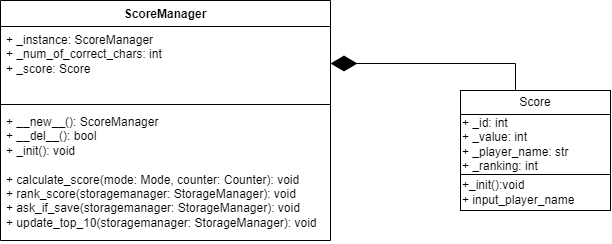
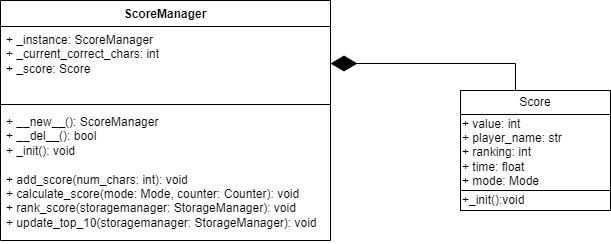
score manager update

diff --git a/docs/UML/ScoreManager.md b/docs/UML/ScoreManager.md
@@ -3,19 +3,18 @@
 # ScoreManager
 
  
-_num_of_correct_chars: int - ostateczna ilość poprawnych znaków obliczona w GameManager
+_current_correct_chars: int - aktualna ilość poprawnie wpisanych znaków obliczona w GameManager
+
+add_score(num_char) - zwiększa wartość pola _current_correct_chars
 
 calculate_score(mode, counter) - oblicza ilość punktów w zależności od trybu i czasu, wynik umieszcza w polu _score
 
 rank_score(storagemanager) - nadaje nowemu wynikowi pozycję w rankingu porównując go z poprzednimi wynikami
-
-ask_if_save() - wyświetla komunikat pytający użytkownika czy chce zapisać swój wynik, jeżeli tak to wywołuje save_score() ze StorageManager, jeżeli nie to wywołuje destruktor
 
 update_top_10(storagemanegar) - w przypadku gdy wynik zostaje oceniony jako jeden z 10 najwyższych, aktualizuje listę 10 najlepszych wyników
 
 __del__() - destruktor, zwraca czy pomyślnie usunięty
 
 ## Score
-_id: int - składowa statyczna, w momencie inicjalizacji obiektu zwiększa się o 1
 
-input_player_name() - wprowadza nazwę gracza z klawiatury
+_init() - konstruktor tworzący obiekt Score z wartościami domyślnymi
